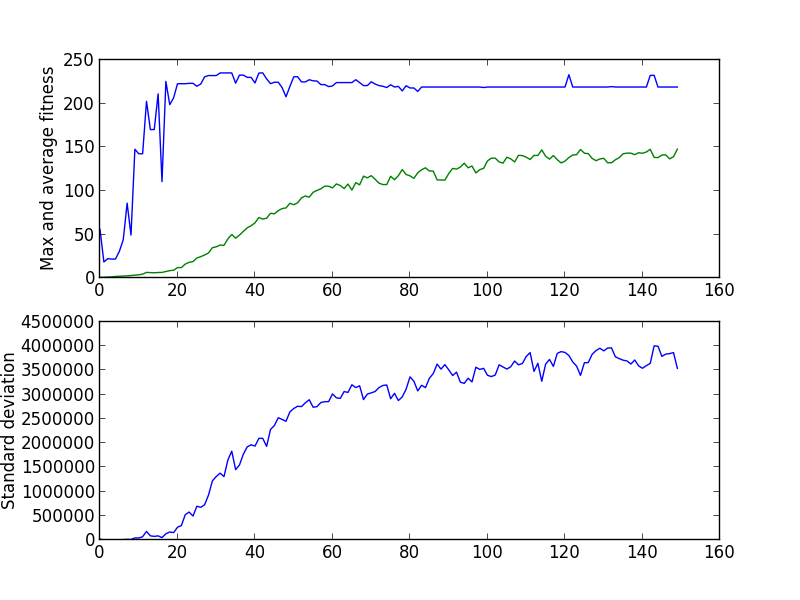
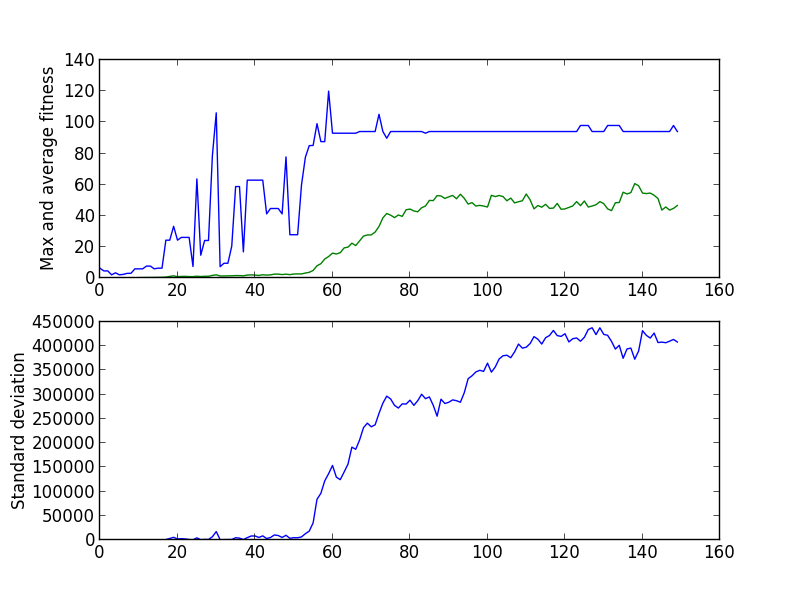
stuff

diff --git a/EA.py b/EA.py
@@ -13,13 +13,13 @@ class EA:
     generations = 150 #Number of generations
     generation = 0 #Current generation number
     fitness_goal = 1000 #The fitness goal
-    crossover_rate = 0.95 #The rate of which to perform crossover
+    crossover_rate = 0.5 #The rate of which to perform crossover
     k = 5 #Group size in k_tournament
     e = 0.1 #Probability of selecting random in k_tournament
-    mutation_probability = 0.1 #Probability that mutation of a specimen will occur
+    mutation_probability = 0.4 #Probability that mutation of a specimen will occur
     mutation_count = 1 #Number of bits mutated when mutating
-    rank_max = 2.0 #Max in rank selection
-    rank_min = 0.0 #Min in rank selection
+    rank_max = 1.6 #Max in rank selection
+    rank_min = 0.4 #Min in rank selection
     overproduction_factor = 2 #The factor of children to be produced with OP
     
     stagnate_counter = 0

diff --git a/data_loader.py b/data_loader.py
@@ -1,7 +1,7 @@
 import izhikevich_neuron
 #Load the training data. Returns a list of the data.
 
-def read_training_files(data_nr=1):
+def read_training_files(data_nr=4):
     data_file = open('training_data/izzy-train'+str(data_nr)+'.dat', 'r')
     training_data = [float(x) for x in data_file.read().strip().split() if x]
     assert len(training_data) == 1001

diff --git a/Plotting.py b/Plotting.py
@@ -88,7 +88,7 @@ class NeuroPlot:
         self.std_deviation.append(self.ea.std_deviation)
     
     def plot(self):
-        training_nr = 1
+        training_nr = 4
         spiketrain1 = self.ea.best_overall_individual.spiketrain
         spiketrain2 = read_training_files()
         
